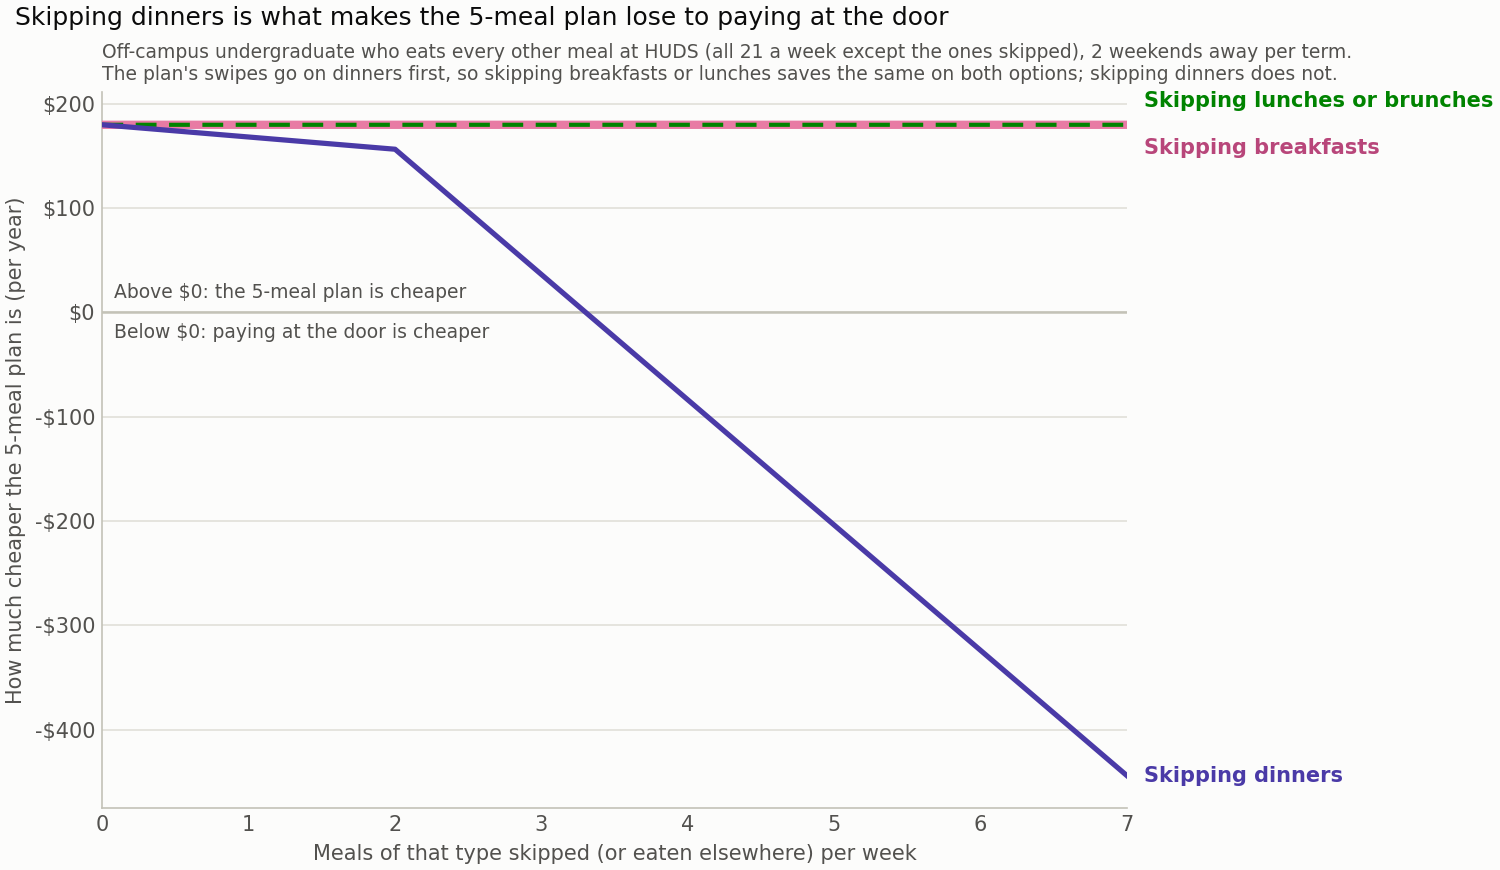
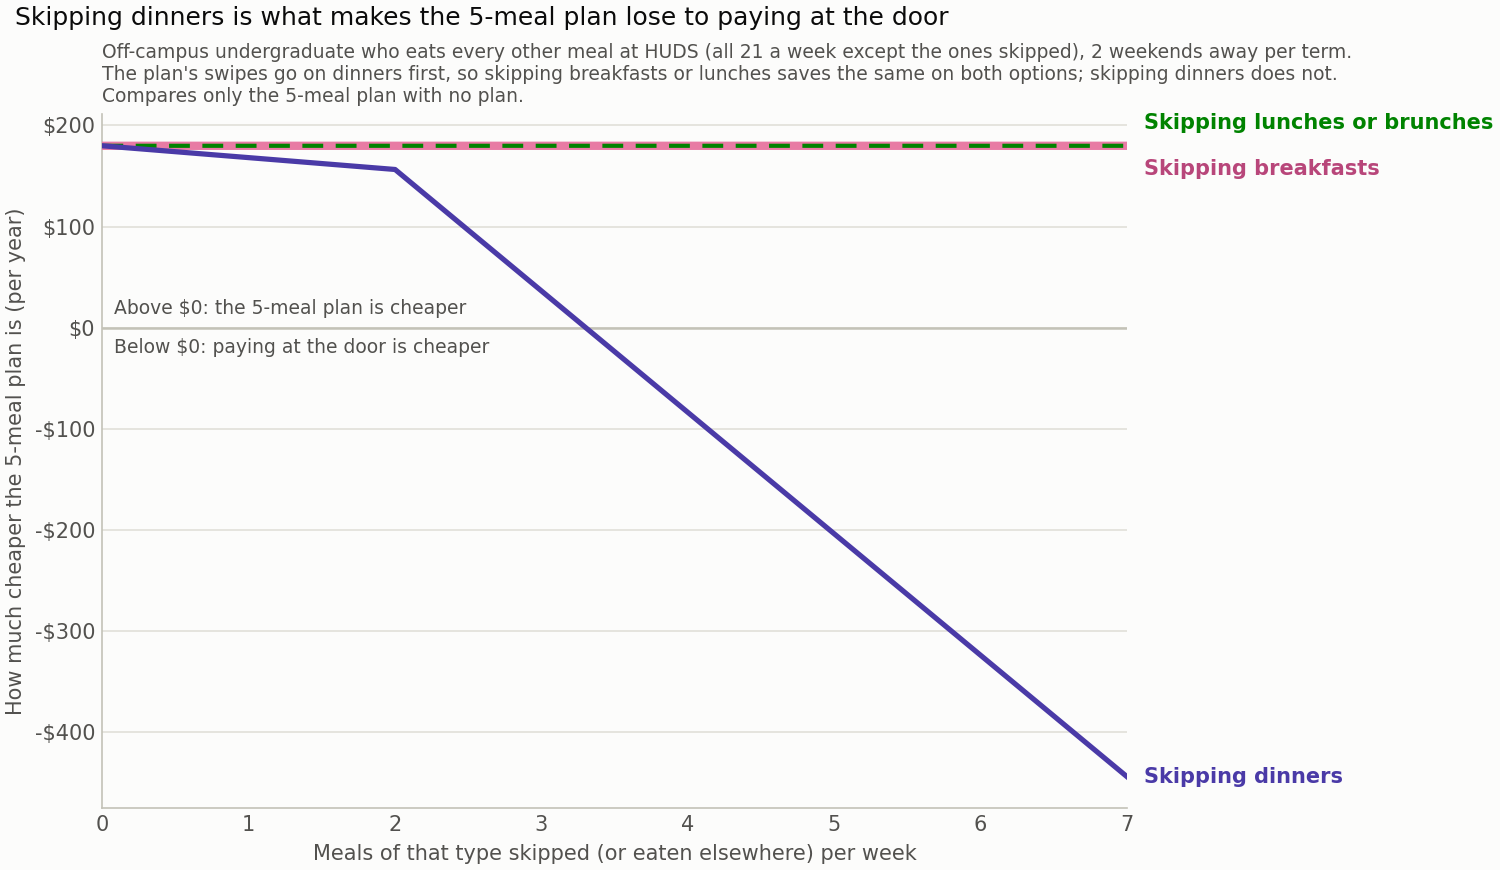
Brief: guest meals are not an option; price templates; chart note
CLAUDE.md records the decision that a student without a plan can't buy
guest meals (user's knowledge of HUDS rules, to be confirmed): 'no
plan' now means eating out or cooking, guest rates are reference only,
and the price of a meal out is a variable until real prices are
collected. The model is not changed yet.

data/hand_collected/ adds empty templates (with instructions) for ~30
restaurant meals and an optional grocery basket.
meal_type_savings.png notes it compares only the 5-meal plan with no plan.

Changed region(s): [[0.0, 0.0931, 1.0, 0.8069], [0.0307, 0.7759, 0.736, 0.869], [0.736, 0.869, 0.8893, 0.9]]

diff --git a/src/charts.py b/src/charts.py
@@ -426,6 +426,7 @@ def plot_meal_type_savings(prices: Prices, weekends_away: int = 2):
                  x=0.01, ha="left")
     ax.set_title(f"Off-campus undergraduate who eats every other meal at HUDS (all 21 a week except the ones skipped), "
                  f"{weekends_away} weekends away per term.\nThe plan's swipes go on dinners first, so skipping "
-                 "breakfasts or lunches saves the same on both options; skipping dinners does not.",
+                 "breakfasts or lunches saves the same on both options; skipping dinners does not.\n"
+                 "Compares only the 5-meal plan with no plan.",
                  color=MUTED, fontsize=9, loc="left")
     return fig

diff --git a/CLAUDE.md b/CLAUDE.md
@@ -33,7 +33,7 @@ Pages to fetch:
 - One swipe per meal period; unused meals forfeited weekly after Saturday dinner. Non-refundable.
 - Fall term Sept 2 – Dec 19, Spring Jan 25 – May 15.
 
-**Guest meal rates (2026–27, incl. 7% tax):** breakfast ~$10.84 (Houses) / ~$12.90 (Annenberg & Quincy Mon–Sat); brunch and lunch ~$17.30; dinner ~$21.40. Source: HUDS undergraduate FAQ page.
+**Guest meal rates (2026–27, incl. 7% tax):** breakfast ~$10.84 (Houses) / ~$12.90 (Annenberg & Quincy Mon–Sat); brunch and lunch ~$17.30; dinner ~$21.40. Source: HUDS undergraduate FAQ page. **Reference only — not an option a student can choose** (see "Guest meals are not an option" under Decisions).
 
 **Grad student GradPlus plan:** Regular $100/month, Deluxe $150/month, declining balance, 10% discount on purchases at HUDS cafes, unused balance forfeited at end of academic year. Some GSAS residents also have a required Commons at Lehman Hall plan (~$3,190/yr, lunch and dinner weekdays).
 
@@ -93,6 +93,16 @@ Python 3.9+. pandas, numpy, matplotlib (or plotly), pytest. Optional: requests +
 - BoardPlus ($65/semester) is credited at face value; the on-campus chart also shows it unspent. The $65 is listed with 2025–26 dates and assumed to still apply.
 - dining.harvard.edu blocks scripted requests (HTTP 403). HUDS pages are saved from a browser into `data/raw/manual/` and parsed by `scripts/fetch_prices.py`, which verifies each page's canonical URL.
 
+### Guest meals are not an option (decided 2026-10-08)
+
+- **Rule:** a student without a meal plan can't buy a guest meal unless accompanied by a Harvard student on a plan. Source: the user's own knowledge of HUDS rules; **to be confirmed with HUDS.** The saved FAQ is consistent but not explicit: it describes guest meals as something "students on the meal plan may host … and may pay for them with cash or BoardPlus"; the only case of affiliates paying the guest rate themselves is summer dining at Winthrop and Adams.
+- **"No plan" means eating out in Cambridge or cooking.** Meals not covered by a plan's swipes are also eaten out or cooked, not bought at guest rates.
+- **Guest rates stay only as a reference** ("what HUDS charges for a meal"), not as an option.
+- **Until real prices are collected,** the price of a meal out is a variable (about $8–$40), and cooking is a separate cost per meal.
+- **The guest-rate results are kept** (in `figures/appendix/`) so old and new can be compared.
+- Graduate students are unaffected: HUDS cafés sell to anyone, so paying cash at the café is a real option.
+
 ## Open questions for the user
 
+- Confirm with HUDS that a student without a plan can't buy guest meals on their own.
 - Can the user export their own swipe history?

diff --git a/data/hand_collected/README.md b/data/hand_collected/README.md
@@ -1,0 +1,39 @@
+# Hand-collected prices
+
+Fill these in by hand; the code reads them as they are. One row per item. Leave a cell blank rather than guess.
+
+## `restaurant_meals.csv` — about 30 meals near Harvard Square and Central Square
+
+Aim for a spread: roughly 10 breakfast, 10 lunch and 10 dinner items, from cheap (food trucks, cafés, takeout) to sit-down, in both squares. Pick what a student would typically order as a full meal, not the cheapest side or the priciest special.
+
+| Column | What to enter |
+|---|---|
+| `restaurant` | Name as on the menu |
+| `neighborhood` | `Harvard Sq` or `Central Sq` |
+| `address` | Street address |
+| `meal_type` | `breakfast`, `lunch` or `dinner` |
+| `item` | The dish, e.g. "chicken burrito bowl" |
+| `menu_price` | Menu price in dollars, **before** tax and tip, e.g. `13.95` (tax and tip are added in code, so the same rule applies to every row) |
+| `includes_drink` | `yes` or `no` |
+| `price_source` | `in person`, `restaurant website`, or `menu photo` (avoid delivery apps: their prices are marked up) |
+| `date_checked` | `YYYY-MM-DD` |
+| `collected_by` | Your initials |
+| `notes` | Anything odd: lunch special, student discount, portion size |
+
+Example row (don't copy into the file):
+`Example Cafe,Harvard Sq,1 Example St,lunch,turkey sandwich,12.50,no,in person,2026-10-10,CC,lunch special`
+
+## `grocery_basket.csv` — optional check on the cooking cost
+
+The cooking cost per meal will come from USDA/BLS data. If you want a local check, price a small basket of staples (rice, pasta, eggs, chicken, beans, vegetables, bread, milk) at Star Market, Trader Joe's and/or Market Basket.
+
+| Column | What to enter |
+|---|---|
+| `store` | `Star Market`, `Trader Joe's`, `Market Basket`, ... |
+| `item` / `brand` | e.g. `long-grain rice` / `store brand` |
+| `package_size` / `unit` | e.g. `2` / `lb` |
+| `shelf_price` | Price on the shelf in dollars |
+| `on_sale` | `yes` or `no` |
+| `servings_per_package` | From the label |
+| `used_in_meal` | Which kind of meal it's for: `breakfast`, `lunch`, `dinner` or `any` |
+| `date_checked`, `collected_by`, `notes` | As above |
